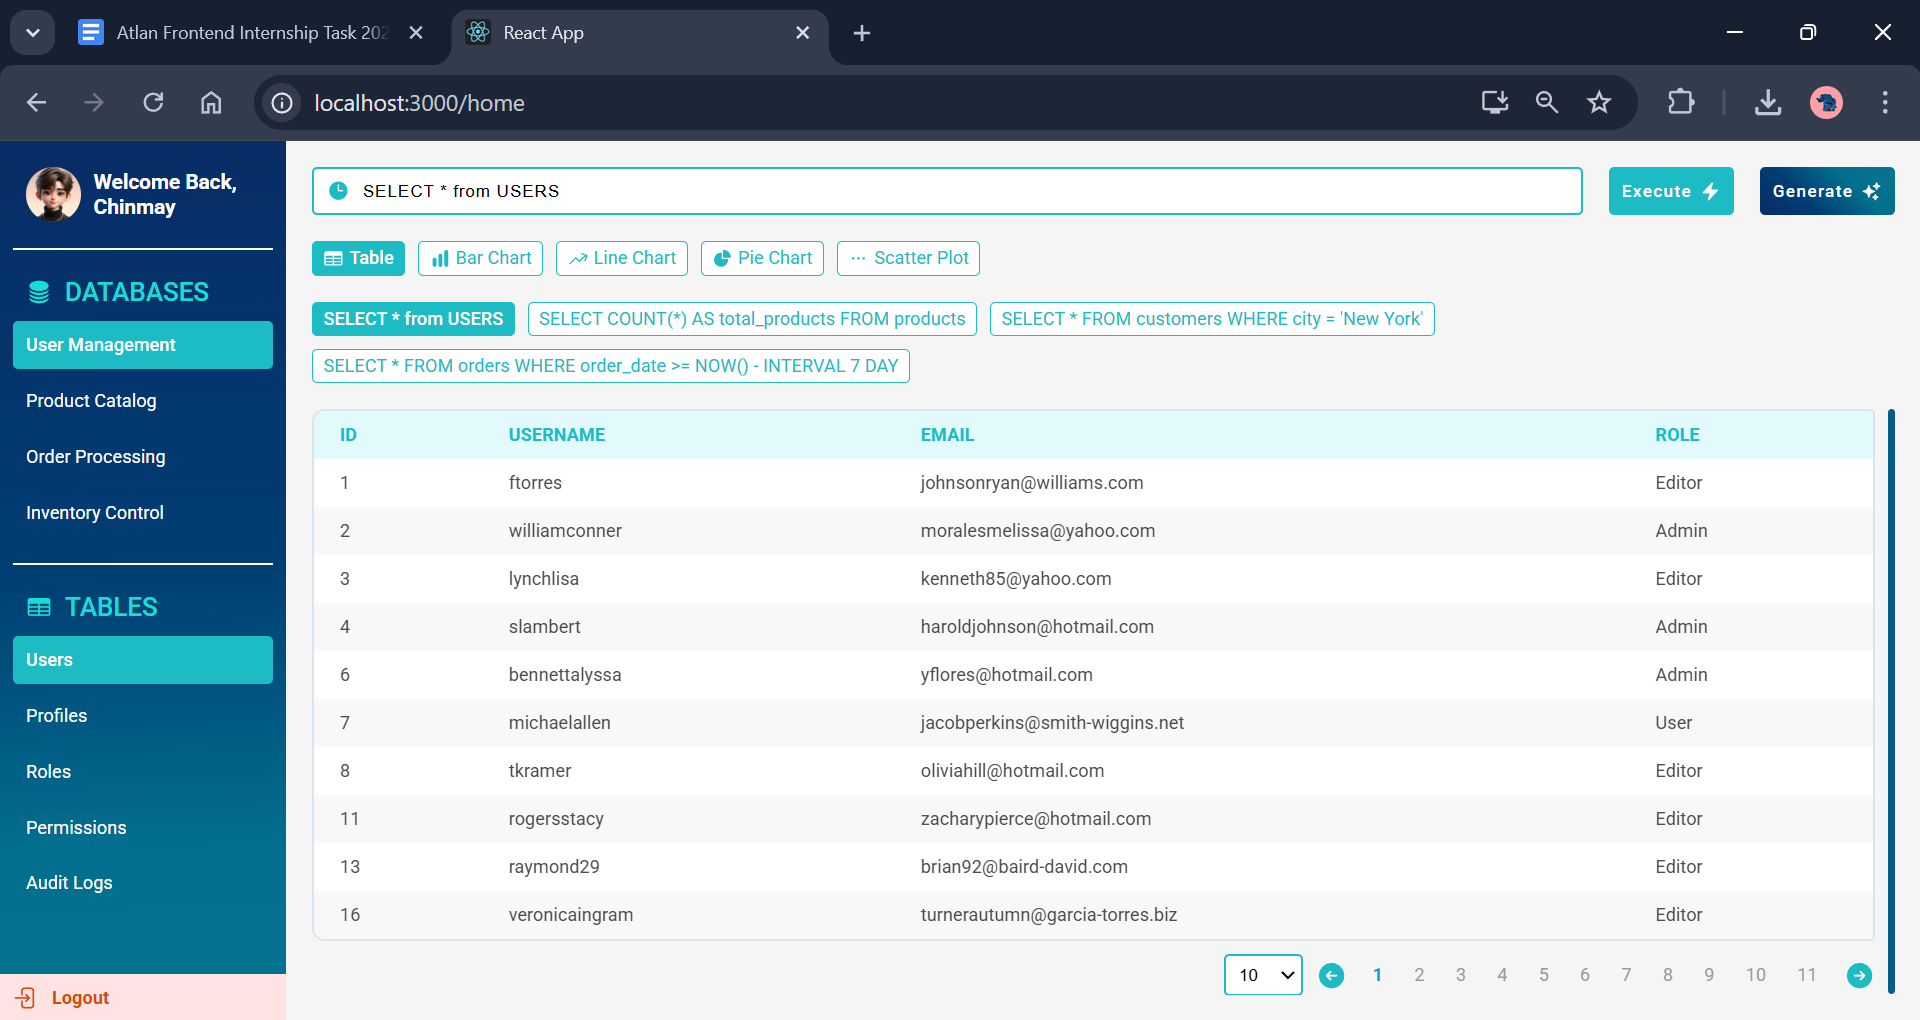
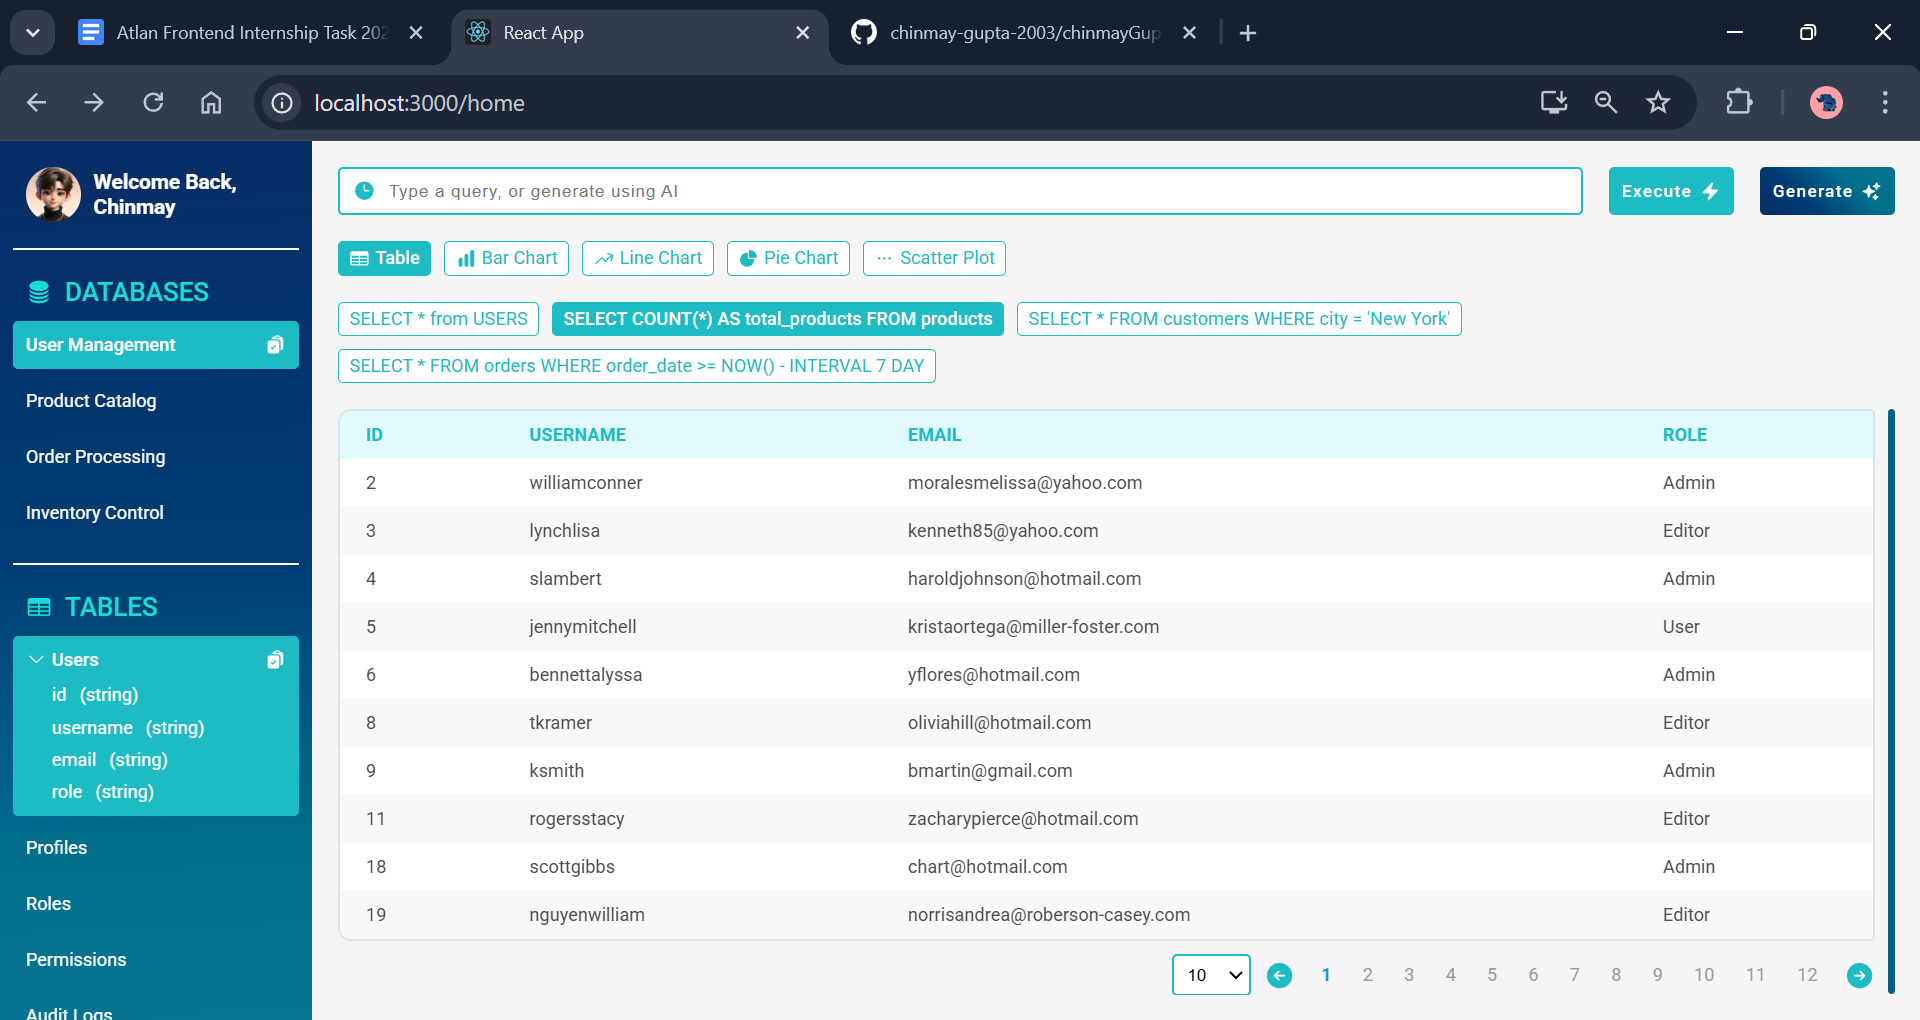
added table schema and update home page screenshot in readme

diff --git a/src/components/Sidebar/Sidebar.jsx b/src/components/Sidebar/Sidebar.jsx
@@ -1,3 +1,4 @@
+import { useState } from "react";
 import { toast } from "react-toastify";
 import { useDispatch, useSelector } from "react-redux";
 import { useNavigate, Outlet } from "react-router-dom";
@@ -7,6 +8,8 @@ import { databases } from "constants/databases";
 import avatar from "assets/images/avatar.jpg";
 import {
   ArrowRightEndOnRectangleIcon,
+  ChevronDownIcon,
+  ChevronRightIcon,
   CircleStackIcon,
   ClipboardDocumentCheckIcon,
   TableCellsIcon,
@@ -20,14 +23,16 @@ import {
   setViewSelected,
 } from "store/databaseSlice";
 import { copyToClipboard } from "utils/copyToClipBoard";
+import { columnsMapping } from "constants/mappings";
 
 function Sidebar() {
   const navigate = useNavigate();
   const dispatch = useDispatch();
-
   const { tableSelected, databaseSelected } = useSelector(
     (state) => state.database
   );
+
+  const [showTableSchema, setShowTableSchema] = useState(false);
 
   const logout = () => {
     localStorage.clear();
@@ -77,6 +82,7 @@ function Sidebar() {
                       copyToClipboard(database.name, "Database name")
                     }
                     height={16}
+                    className={styles.copyIcon}
                   />
                 )}
               </div>
@@ -101,22 +107,57 @@ function Sidebar() {
             {databaseSelected.id &&
               tables[databaseSelected.id].map((table) => (
                 <div
-                  key={table.id}
-                  className={`${styles.databaseLink} ${
+                  className={`${styles.tableSchemaContainer} ${
                     tableSelected.id === table.id ? styles.active : ""
                   }`}
-                  onClick={() => {
-                    dispatch(setTableSelected(table));
-                    dispatch(setViewSelected("table"));
-                    dispatch(setQuerySelected("1"));
-                  }}
                 >
-                  <p>{table.name}</p>
-                  {tableSelected.id === table.id && (
-                    <ClipboardDocumentCheckIcon
-                      onClick={() => copyToClipboard(table.name, "Table name")}
-                      height={16}
-                    />
+                  <div
+                    key={table.id}
+                    className={styles.databaseLink}
+                    onClick={() => {
+                      dispatch(setTableSelected(table));
+                      dispatch(setViewSelected("table"));
+                      dispatch(setQuerySelected("1"));
+                      setShowTableSchema(false);
+                    }}
+                  >
+                    {tableSelected.id === table.id && !showTableSchema && (
+                      <ChevronRightIcon
+                        height={16}
+                        className={styles.chevronIcon}
+                        onClick={(e) => {
+                          e.stopPropagation();
+                          setShowTableSchema(true);
+                        }}
+                      />
+                    )}
+                    {tableSelected.id === table.id && showTableSchema && (
+                      <ChevronDownIcon
+                        height={16}
+                        className={styles.chevronIcon}
+                        onClick={() => setShowTableSchema(false)}
+                      />
+                    )}
+                    <p>{table.name}</p>
+                    {tableSelected.id === table.id && (
+                      <ClipboardDocumentCheckIcon
+                        onClick={() =>
+                          copyToClipboard(table.name, "Table name")
+                        }
+                        height={16}
+                        className={styles.copyIcon}
+                      />
+                    )}
+                  </div>
+                  {tableSelected.id === table.id && showTableSchema && (
+                    <div className={styles.tableSchema}>
+                      {columnsMapping[tableSelected.id].map((column) => (
+                        <div className={styles.schemaType}>
+                          <span>{column.accessorKey}</span>
+                          <span>({typeof column.accessorKey})</span>
+                        </div>
+                      ))}
+                    </div>
                   )}
                 </div>
               ))}

diff --git a/src/components/Sidebar/Sidebar.module.css b/src/components/Sidebar/Sidebar.module.css
@@ -11,9 +11,9 @@
   flex-direction: column;
   gap: 2rem;
   box-shadow: 0 4px 10px rgba(0, 0, 0, 0.2);
-  width: 22rem;
-  min-width: 22rem;
-  max-width: 22rem;
+  width: 24rem;
+  min-width: 24rem;
+  max-width: 24rem;
   height: 100%;
   overflow: auto;
 }
@@ -80,7 +80,6 @@
   border-radius: 0.4rem;
   color: var(--primary-white);
   display: flex;
-  justify-content: space-between;
 }
 
 .databaseLink.active {
@@ -118,6 +117,7 @@
 
 .divider {
   height: 2px;
+  min-height: 2px;
   background-color: var(--primary-white);
   margin: 0 1rem;
 }
@@ -133,4 +133,37 @@
 .text {
   color: var(--primary-white);
   text-align: center;
+}
+
+.copyIcon {
+  margin-left: auto;
+}
+
+.chevronIcon {
+  margin-right: 0.4rem;
+}
+
+.tableSchemaContainer {
+  display: flex;
+  flex-direction: column;
+  border-radius: 0.4rem;
+}
+
+.tableSchemaContainer.active {
+  background-color: var(--primary-teal);
+  font-weight: 500;
+}
+
+.tableSchema {
+  color: var(--primary-white);
+  display: flex;
+  flex-direction: column;
+  font-weight: 400;
+  gap: 0.8rem;
+  padding: 0 0 1rem 3rem;
+}
+
+.schemaType {
+  display: flex;
+  gap: 1rem;
 }
